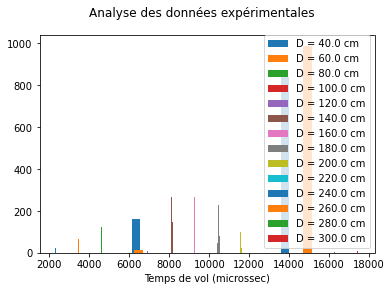
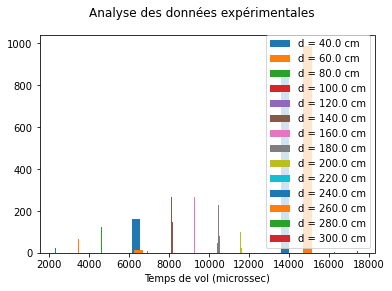
Mise à jour du site

Changed region(s): [[0.7347, 0.1237, 0.949, 0.8351], [0.6735, 0.1237, 0.7041, 0.866]]

diff --git a/notebook/exo_science_2.html b/notebook/exo_science_2.html
@@ -407,7 +407,7 @@ Valeur estimée de C : 9.985208000000001e-08
 <p>Cet exercice est un peu plus complet. Veillez à bien comprendre ce qui a été fait précédemment.</p>
 <div class="tip admonition">
 <p class="admonition-title">Célérité des ultrasons</p>
-<p>Le but est d’étudier la propagation des ultrasons dans l’air pour estimer leur célérité. Grâce à un microcontrolleur (Arduino), on a réalisé un grand nombre de mesures (environ 1000) du temps de vol <span class="math notranslate nohighlight">\(\Delta t\)</span> des ultrasons pour plusieurs distances différentes <span class="math notranslate nohighlight">\(2D\)</span> (on a réalisé un aller-retour par réflexion sur un obstacle) afin d’estimer pour chaque distance la célérité moyenne <span class="math notranslate nohighlight">\(c = {2D \over \Delta t(D)}\)</span>. On fera alors la moyenne des célérités sur toutes les distances pour estimer la célérité des ultrasons dans l’air.</p>
+<p>Le but est d’étudier la propagation des ultrasons dans l’air pour estimer leur célérité. Grâce à un microcontrolleur (Arduino), on a réalisé un grand nombre de mesures (environ 1000) du temps de vol <span class="math notranslate nohighlight">\(\Delta t\)</span> des ultrasons pour plusieurs distances différentes <span class="math notranslate nohighlight">\(2d\)</span> (on a réalisé un aller-retour par réflexion sur un obstacle) afin d’estimer pour chaque distance la célérité moyenne <span class="math notranslate nohighlight">\(c = {2d \over \Delta t(d)}\)</span>. On fera alors la moyenne des célérités sur toutes les distances pour estimer la célérité des ultrasons dans l’air.</p>
 <p>Le fichier de données est à télécharger à <a class="reference external" href="https://github.com/pcsi3physiquestan/donnees_exp/blob/main/vitesse_son_2.dat?raw=true">ce lien</a>.</p>
 <div class="admonition note">
 <p class="admonition-title">Note</p>
@@ -419,14 +419,14 @@ Valeur estimée de C : 9.985208000000001e-08
 <li><p>Créer un graphique et y tracer, pour chaque distance l’histogramme des valeurs mesurées. On prendra soin de bien légender chaque histogramme par sa distance. <strong>Vous DEVEZ utiliser une boucle qui puisse s’adapter à un autre fichier de données qui aurait la même forme mais pas forcément les mêmes distances (ni le même nombre de distances étudiées).</strong> <em>Quelques informations utiles sont données à la fin de l’exercice.</em></p></li>
 <li><p>Observer les histogrammes, vous devriez observer que certaines mesures sont <em>clairement aberrantes</em>. Nous allons proposées une méthode de sélection des valeurs acceptables.</p></li>
 </ol>
-<p>La méthode de sélection (non expliquée ici) consiste à calculer la moyenne <span class="math notranslate nohighlight">\(\Delta t_m (D)\)</span> et l’écart-type <span class="math notranslate nohighlight">\(\sigma (D)\)</span> des valeurs de temps de vol pour une distance <span class="math notranslate nohighlight">\(D\)</span> puis parcourir l’ensemble des valeurs mesurées <span class="math notranslate nohighlight">\(\Delta t_i (D)\)</span> pour la distance <span class="math notranslate nohighlight">\(D\)</span>.</p>
+<p>La méthode de sélection (non expliquée ici) consiste à calculer la moyenne <span class="math notranslate nohighlight">\(\Delta t_m (d)\)</span> et l’écart-type <span class="math notranslate nohighlight">\(\sigma (d)\)</span> des valeurs de temps de vol pour une distance <span class="math notranslate nohighlight">\(d\)</span> puis parcourir l’ensemble des valeurs mesurées <span class="math notranslate nohighlight">\(\Delta t_i (d)\)</span> pour la distance <span class="math notranslate nohighlight">\(d\)</span>.</p>
 <ul class="simple">
-<li><p>Si l’écart à la moyenne <span class="math notranslate nohighlight">\(\left\vert (\Delta t_i (D) - \Delta t_m (D) \right\vert\)</span> est inférieure à 2 écart-type (<span class="math notranslate nohighlight">\(2 \sigma (D)\)</span>), alors on garde la valeur.</p></li>
-<li><p>Si l’écart à la moyenne <span class="math notranslate nohighlight">\(\left\vert (\Delta t_i (D) - \Delta t_m (D) \right\vert\)</span> est supérieure à 2 écart-type (<span class="math notranslate nohighlight">\(2 \sigma (D)\)</span>), alors on enlève la valeur.</p></li>
+<li><p>Si l’écart à la moyenne <span class="math notranslate nohighlight">\(\left\vert (\Delta t_i (d) - \Delta t_m (d) \right\vert\)</span> est inférieure à 2 écart-type (<span class="math notranslate nohighlight">\(2 \sigma (d)\)</span>), alors on garde la valeur.</p></li>
+<li><p>Si l’écart à la moyenne <span class="math notranslate nohighlight">\(\left\vert (\Delta t_i (d) - \Delta t_m (d) \right\vert\)</span> est supérieure à 2 écart-type (<span class="math notranslate nohighlight">\(2 \sigma (d)\)</span>), alors on enlève la valeur.</p></li>
 </ul>
 <ol class="simple">
 <li><p>Ecrire une fonction qui prend comme argument un vecteur numpy <code class="docutils literal notranslate"><span class="pre">u</span></code> et qui renvoie un vecteur numpy <code class="docutils literal notranslate"><span class="pre">u_sel</span></code> ne contenant que les valeurs acceptables.</p></li>
-<li><p>Pour chaque distance <span class="math notranslate nohighlight">\(D\)</span> (toujours avec la contrainte de devoir s’adapter à un autre fichier de mesure), sélectionner les valeurs à garder puis calculer le temps de vol moyen puis la célérité du son associée <span class="math notranslate nohighlight">\(c(D)\)</span>. Stocker cette célérité dans un vecteur numpy <code class="docutils literal notranslate"><span class="pre">cs</span></code>.</p></li>
+<li><p>Pour chaque distance <span class="math notranslate nohighlight">\(D\)</span> (toujours avec la contrainte de devoir s’adapter à un autre fichier de mesure), sélectionner les valeurs à garder puis calculer le temps de vol moyen puis la célérité du son associée <span class="math notranslate nohighlight">\(c(d)\)</span>. Stocker cette célérité dans un vecteur numpy <code class="docutils literal notranslate"><span class="pre">cs</span></code>.</p></li>
 <li><p>Représenter les valeurs des célérités estimées en fonction de <span class="math notranslate nohighlight">\(D\)</span> et vérifier qu’on observe bien à peu près la même valeur pour distance (on ne peut faire mieux qu’une estimation visuelle sans la données des incertitudes).</p></li>
 <li><p>Estimer la moyenne de <code class="docutils literal notranslate"><span class="pre">cs</span></code> comme une estimation de la célérité des ultrasons. Sachant qu’elle est à peu près identique à la célérité du son dans l’air, vérifier si l’ordre de grandeur obtenu est correct. Sans estimation des incertitudes de mesures, on se limitera à une vérification de l’ordre de grandeur.</p></li>
 </ol>

diff --git a/_sources/notebook/exo_science_2.md b/_sources/notebook/exo_science_2.md
@@ -210,7 +210,7 @@ Cet exercice est un peu plus complet. Veillez à bien comprendre ce qui a été 
 
 ````{admonition} Célérité des ultrasons
 :class: tip
-Le but est d'étudier la propagation des ultrasons dans l'air pour estimer leur célérité. Grâce à un microcontrolleur (Arduino), on a réalisé un grand nombre de mesures (environ 1000) du temps de vol $\Delta t$ des ultrasons pour plusieurs distances différentes $2D$ (on a réalisé un aller-retour par réflexion sur un obstacle) afin d'estimer pour chaque distance la célérité moyenne $c = {2D \over \Delta t(D)}$. On fera alors la moyenne des célérités sur toutes les distances pour estimer la célérité des ultrasons dans l'air.
+Le but est d'étudier la propagation des ultrasons dans l'air pour estimer leur célérité. Grâce à un microcontrolleur (Arduino), on a réalisé un grand nombre de mesures (environ 1000) du temps de vol $\Delta t$ des ultrasons pour plusieurs distances différentes $2d$ (on a réalisé un aller-retour par réflexion sur un obstacle) afin d'estimer pour chaque distance la célérité moyenne $c = {2d \over \Delta t(d)}$. On fera alors la moyenne des célérités sur toutes les distances pour estimer la célérité des ultrasons dans l'air.
 
 Le fichier de données est à télécharger à [ce lien](https://github.com/pcsi3physiquestan/donnees_exp/blob/main/vitesse_son_2.dat?raw=true).
 
@@ -223,12 +223,12 @@ Si votre navigateur ouvre le fichier au lieu de le télécharger, faites un clic
 3. Créer un graphique et y tracer, pour chaque distance l'histogramme des valeurs mesurées. On prendra soin de bien légender chaque histogramme par sa distance. __Vous DEVEZ utiliser une boucle qui puisse s'adapter à un autre fichier de données qui aurait la même forme mais pas forcément les mêmes distances (ni le même nombre de distances étudiées).__ _Quelques informations utiles sont données à la fin de l'exercice._
 4. Observer les histogrammes, vous devriez observer que certaines mesures sont _clairement aberrantes_. Nous allons proposées une méthode de sélection des valeurs acceptables.
 
-La méthode de sélection (non expliquée ici) consiste à calculer la moyenne $\Delta t_m (D)$ et l'écart-type $\sigma (D)$ des valeurs de temps de vol pour une distance $D$ puis parcourir l'ensemble des valeurs mesurées $\Delta t_i (D)$ pour la distance $D$.
-* Si l'écart à la moyenne $\left\vert (\Delta t_i (D) - \Delta t_m (D) \right\vert$ est inférieure à 2 écart-type ($2 \sigma (D)$), alors on garde la valeur.
-* Si l'écart à la moyenne $\left\vert (\Delta t_i (D) - \Delta t_m (D) \right\vert$ est supérieure à 2 écart-type ($2 \sigma (D)$), alors on enlève la valeur.
+La méthode de sélection (non expliquée ici) consiste à calculer la moyenne $\Delta t_m (d)$ et l'écart-type $\sigma (d)$ des valeurs de temps de vol pour une distance $d$ puis parcourir l'ensemble des valeurs mesurées $\Delta t_i (d)$ pour la distance $d$.
+* Si l'écart à la moyenne $\left\vert (\Delta t_i (d) - \Delta t_m (d) \right\vert$ est inférieure à 2 écart-type ($2 \sigma (d)$), alors on garde la valeur.
+* Si l'écart à la moyenne $\left\vert (\Delta t_i (d) - \Delta t_m (d) \right\vert$ est supérieure à 2 écart-type ($2 \sigma (d)$), alors on enlève la valeur.
 
 5. Ecrire une fonction qui prend comme argument un vecteur numpy `u` et qui renvoie un vecteur numpy `u_sel` ne contenant que les valeurs acceptables.
-6. Pour chaque distance $D$ (toujours avec la contrainte de devoir s'adapter à un autre fichier de mesure), sélectionner les valeurs à garder puis calculer le temps de vol moyen puis la célérité du son associée $c(D)$. Stocker cette célérité dans un vecteur numpy `cs`.
+6. Pour chaque distance $D$ (toujours avec la contrainte de devoir s'adapter à un autre fichier de mesure), sélectionner les valeurs à garder puis calculer le temps de vol moyen puis la célérité du son associée $c(d)$. Stocker cette célérité dans un vecteur numpy `cs`.
 7. Représenter les valeurs des célérités estimées en fonction de $D$ et vérifier qu'on observe bien à peu près la même valeur pour distance (on ne peut faire mieux qu'une estimation visuelle sans la données des incertitudes).
 8. Estimer la moyenne de `cs` comme une estimation de la célérité des ultrasons. Sachant qu'elle est à peu près identique à la célérité du son dans l'air, vérifier si l'ordre de grandeur obtenu est correct. Sans estimation des incertitudes de mesures, on se limitera à une vérification de l'ordre de grandeur.
 
@@ -249,7 +249,7 @@ ax.set_xlabel("Temps de vol (microssec)")
 for data in donnees:
     d = data[0]  # Distance d'étude
     tps = data[1:]  # Les temps de vol
-    ax.hist(tps, bins='rice', label="D = " + str(d) + " cm")  # Tracé de l'histogramme. Observer l'ajout de la légende.
+    ax.hist(tps, bins='rice', label="d = " + str(d) + " cm")  # Tracé de l'histogramme. Observer l'ajout de la légende.
 
 ax.legend()
 
